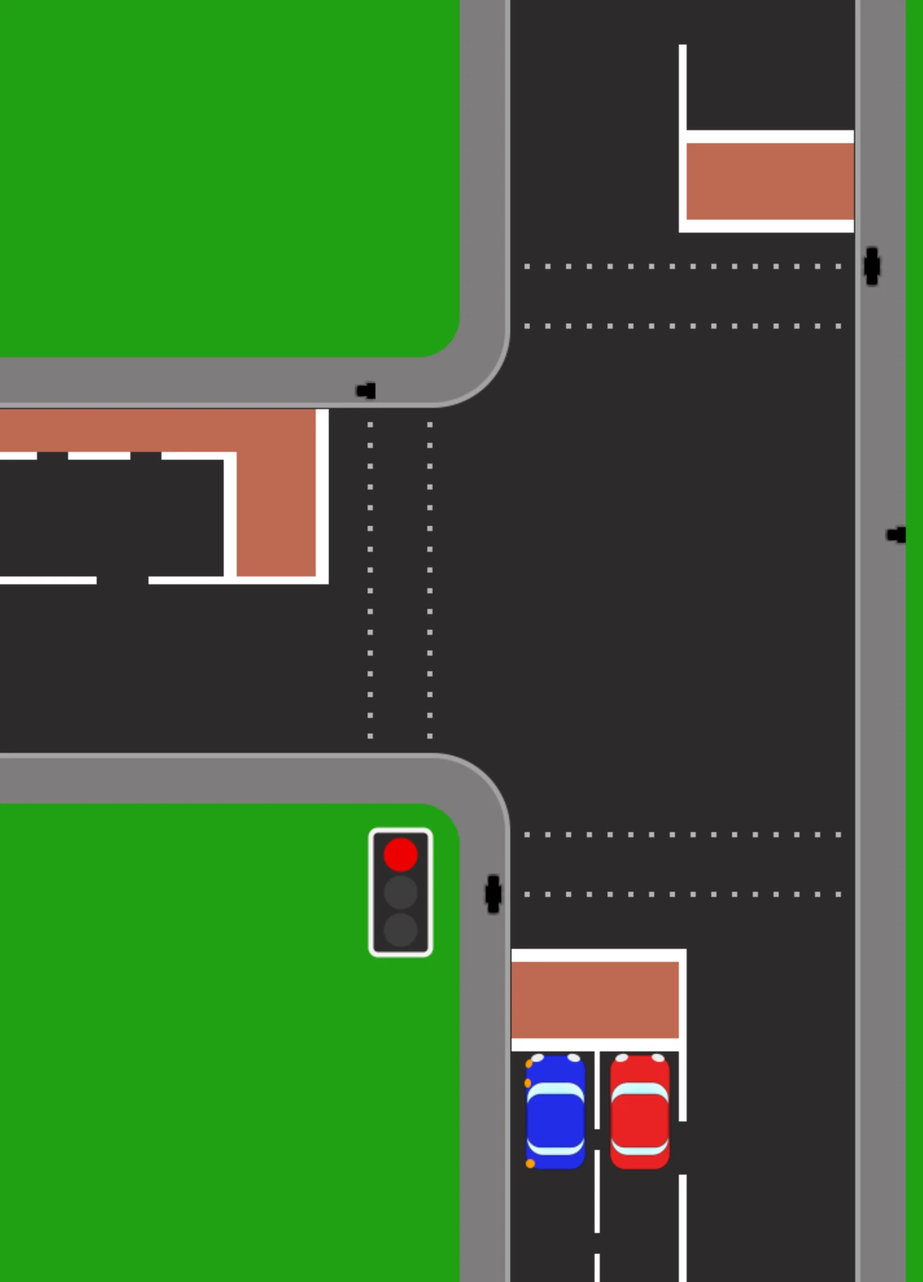
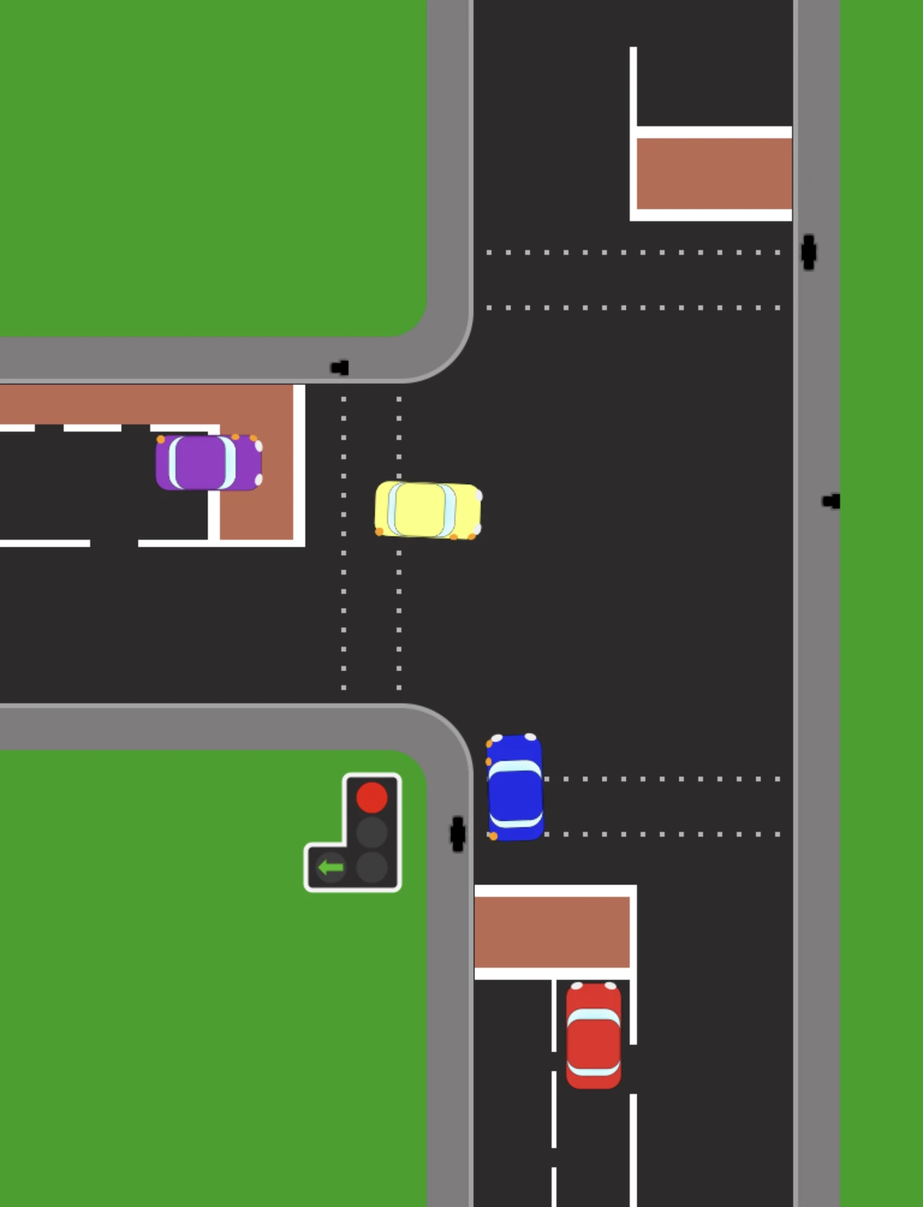
Replace four Traffic Lights diagrams and crop device chrome automatically
Fresh screenshots for Turn Left, Turn Right, T-Junction and Left
Filter; Double Right was already right and is unchanged. These came
straight off the device, so the tool now trims the status and
navigation bars and the home indicator as well - both are flat bands
spanning the full width, guarded so an already-cropped screenshot is
left alone. 152px came off the top and 64px off the bottom of each.

Which page each belongs to came from the app's own title bar rather
than filename order, which is what went wrong last time.

Two fixes to the control detection, both found by these screenshots:

  - Traffic lights are now identified by size alone. The L-shaped
    filter signals - a main head with a filter head beside it - are
    182x221, so the old "taller than wide" rule deleted them. Size
    separates cleanly: signals are 24,000-30,000 pixels against 6,700
    for the largest control. Lamp colour is no good either, since a
    signal with nothing lit has no saturated pixels.
  - Disabled toggles are drawn washed out, close enough to the verge
    green that a loose tolerance swallowed their edges: the component
    came out narrower than the control, and filling its box left faint
    arcs on the grass. Tolerance tightened from 40 to 24.

diff --git a/lessons/guide/traffic-lights/left-filter/index.html b/lessons/guide/traffic-lights/left-filter/index.html
@@ -4,8 +4,7 @@
   <meta charset="UTF-8">
   <meta name="viewport" content="width=device-width, initial-scale=1.0">
   <title>Left Filter — Learn To Drive Guide | Neil Beaver</title>
-  <meta name="description" content="A filter arrow gives you priority to turn while the main signal is still red. It applies only in the direction the arrow points, which is the part most…">
-  <meta name="robots" content="noindex, follow">
+  <meta name="description" content="A green light allows the the stop line to be crossed, but the give way line indicates that priority must be given to those passing from right to left in…">
   <link rel="canonical" href="https://www.neilbeaver.com/lessons/guide/traffic-lights/left-filter/">
 
   <meta property="og:type" content="article">
@@ -13,7 +12,7 @@
   <meta property="og:locale" content="en_GB">
   <meta property="og:url" content="https://www.neilbeaver.com/lessons/guide/traffic-lights/left-filter/">
   <meta property="og:title" content="Left Filter — Learn To Drive Guide">
-  <meta property="og:description" content="A filter arrow gives you priority to turn while the main signal is still red. It applies only in the direction the arrow points, which is the part most…">
+  <meta property="og:description" content="A green light allows the the stop line to be crossed, but the give way line indicates that priority must be given to those passing from right to left in…">
   <meta property="og:image" content="https://www.neilbeaver.com/assets/images/og-lessons.png">
   <meta name="twitter:card" content="summary_large_image">
 
@@ -48,8 +47,11 @@
     <details class="guide-nav" open><summary class="guide-nav__title">Sections</summary><div class="guide-nav__body"><nav aria-label="Guide sections"><ul class="guide-nav__list"><li class="guide-nav__topic"><a href="/lessons/guide/controls/">Controls</a></li><li class="guide-nav__topic"><a href="/lessons/guide/position/">Position</a></li><li class="guide-nav__topic"><a href="/lessons/guide/manoeuvres/">Manoeuvres</a></li><li class="guide-nav__topic"><a href="/lessons/guide/stopping/">Stopping</a></li><li class="guide-nav__topic"><a href="/lessons/guide/pedestrian-crossings/">Pedestrian Crossings</a></li><li class="guide-nav__topic"><a href="/lessons/guide/junctions/">Junctions</a></li><li class="guide-nav__topic is-open"><a href="/lessons/guide/traffic-lights/">Traffic Lights</a><ul class="guide-nav__children"><li><a href="/lessons/guide/traffic-lights/crossroads/">Crossroads</a></li><li><a href="/lessons/guide/traffic-lights/turn-left/">Turn Left</a></li><li><a href="/lessons/guide/traffic-lights/turn-right/">Turn Right</a></li><li><a href="/lessons/guide/traffic-lights/t-junction/">T-Junction</a></li><li><a href="/lessons/guide/traffic-lights/left-filter/" class="is-current">Left Filter</a></li><li><a href="/lessons/guide/traffic-lights/double-right/">Double Right</a></li></ul></li><li class="guide-nav__topic"><a href="/lessons/guide/roundabouts/">Roundabouts</a></li><li class="guide-nav__topic"><a href="/lessons/guide/dual-carriageways/">Dual Carriageways</a></li></ul></nav></div></details>
     <main class="guide-main" id="guide-main">
       <h1>Left Filter</h1>
-<p>A filter arrow gives you priority to turn while the main signal is still red. It applies only in the direction the arrow points, which is the part most often misread.</p>
-<figure class="guide-figure"><img src="/assets/images/guide/traffic-lights/left-filter/left-filter-lane.webp" alt="A light-controlled junction with a separate left filter lane curving away behind a traffic island. A blue car is in the filter lane while a yellow car waits at the main stop line, with red signals on both approaches." width="650" height="806" loading="lazy" decoding="async"></figure>
+<p>A green light allows the the stop line to be crossed, but the give way line indicates that priority must be given to those passing from right to left in this example.</p>
+<p>The blue car may go forward from the stop line on green, but even the left filter light does not grant prority at the give way line.</p>
+<p>This situation can seem counter-intuitive, because it is not usual to give priority to someone turning right, as in the case of the red car.</p>
+<p>It is important for the driver of the blue car to make at least one careful check before proceeding into the new road, including looking over the right shoulder if necessary to compensate for the car being angled towards the left.</p>
+<figure class="guide-figure"><img src="/assets/images/guide/traffic-lights/left-filter/left-filter-lane.webp" alt="A light-controlled junction with a separate left filter lane running behind a traffic island. A blue car waits in the filter lane with the filter signal beside it showing a green arrow, while a red car crosses the junction ahead." width="650" height="806" loading="lazy" decoding="async"></figure>
 
 <nav class="guide-pager" aria-label="Within this section"><a class="guide-pager__prev" href="/lessons/guide/traffic-lights/t-junction/"><span>Previous</span>T-Junction</a><a class="guide-pager__next" href="/lessons/guide/traffic-lights/double-right/"><span>Next</span>Double Right</a></nav>
     </main>

diff --git a/lessons/guide/traffic-lights/turn-right/index.html b/lessons/guide/traffic-lights/turn-right/index.html
@@ -4,8 +4,7 @@
   <meta charset="UTF-8">
   <meta name="viewport" content="width=device-width, initial-scale=1.0">
   <title>Turn Right — Learn To Drive Guide | Neil Beaver</title>
-  <meta name="description" content="Turning right at traffic lights means crossing the path of oncoming traffic, usually from the middle of the junction, and often deciding for yourself when…">
-  <meta name="robots" content="noindex, follow">
+  <meta name="description" content="When turning right with no side road on the left, there is no need to worry about leaving space for oncoming traffic turning to their right.">
   <link rel="canonical" href="https://www.neilbeaver.com/lessons/guide/traffic-lights/turn-right/">
 
   <meta property="og:type" content="article">
@@ -13,7 +12,7 @@
   <meta property="og:locale" content="en_GB">
   <meta property="og:url" content="https://www.neilbeaver.com/lessons/guide/traffic-lights/turn-right/">
   <meta property="og:title" content="Turn Right — Learn To Drive Guide">
-  <meta property="og:description" content="Turning right at traffic lights means crossing the path of oncoming traffic, usually from the middle of the junction, and often deciding for yourself when…">
+  <meta property="og:description" content="When turning right with no side road on the left, there is no need to worry about leaving space for oncoming traffic turning to their right.">
   <meta property="og:image" content="https://www.neilbeaver.com/assets/images/og-lessons.png">
   <meta name="twitter:card" content="summary_large_image">
 
@@ -48,8 +47,9 @@
     <details class="guide-nav" open><summary class="guide-nav__title">Sections</summary><div class="guide-nav__body"><nav aria-label="Guide sections"><ul class="guide-nav__list"><li class="guide-nav__topic"><a href="/lessons/guide/controls/">Controls</a></li><li class="guide-nav__topic"><a href="/lessons/guide/position/">Position</a></li><li class="guide-nav__topic"><a href="/lessons/guide/manoeuvres/">Manoeuvres</a></li><li class="guide-nav__topic"><a href="/lessons/guide/stopping/">Stopping</a></li><li class="guide-nav__topic"><a href="/lessons/guide/pedestrian-crossings/">Pedestrian Crossings</a></li><li class="guide-nav__topic"><a href="/lessons/guide/junctions/">Junctions</a></li><li class="guide-nav__topic is-open"><a href="/lessons/guide/traffic-lights/">Traffic Lights</a><ul class="guide-nav__children"><li><a href="/lessons/guide/traffic-lights/crossroads/">Crossroads</a></li><li><a href="/lessons/guide/traffic-lights/turn-left/">Turn Left</a></li><li><a href="/lessons/guide/traffic-lights/turn-right/" class="is-current">Turn Right</a></li><li><a href="/lessons/guide/traffic-lights/t-junction/">T-Junction</a></li><li><a href="/lessons/guide/traffic-lights/left-filter/">Left Filter</a></li><li><a href="/lessons/guide/traffic-lights/double-right/">Double Right</a></li></ul></li><li class="guide-nav__topic"><a href="/lessons/guide/roundabouts/">Roundabouts</a></li><li class="guide-nav__topic"><a href="/lessons/guide/dual-carriageways/">Dual Carriageways</a></li></ul></nav></div></details>
     <main class="guide-main" id="guide-main">
       <h1>Turn Right</h1>
-<p>Turning right at traffic lights means crossing the path of oncoming traffic, usually from the middle of the junction, and often deciding for yourself when the gap is big enough.</p>
-<figure class="guide-figure"><img src="/assets/images/guide/traffic-lights/turn-right/turning-right-at-lights.webp" alt="A light-controlled junction from above, with a red signal on the corner and two cars waiting at the stop line. Dotted guide lines carry the lanes across the junction towards the side road." width="650" height="866" loading="lazy" decoding="async"></figure>
+<p>When turning right with no side road on the left, there is no need to worry about leaving space for oncoming traffic turning to their right.</p>
+<p>Even if the lanes are not marked with arrows, those going ahead would do well to stick to the left lane at this junction, to avoid getting stuck behind others waiting to turn right.</p>
+<figure class="guide-figure"><img src="/assets/images/guide/traffic-lights/turn-right/turning-right-at-lights.webp" alt="A light-controlled junction from above with the signal showing green. Cars are queued in two lanes on the approach road, and a side road opens to the right beyond the junction." width="650" height="866" loading="lazy" decoding="async"></figure>
 
 <nav class="guide-pager" aria-label="Within this section"><a class="guide-pager__prev" href="/lessons/guide/traffic-lights/turn-left/"><span>Previous</span>Turn Left</a><a class="guide-pager__next" href="/lessons/guide/traffic-lights/t-junction/"><span>Next</span>T-Junction</a></nav>
     </main>

diff --git a/lessons/guide/traffic-lights/t-junction/index.html b/lessons/guide/traffic-lights/t-junction/index.html
@@ -4,8 +4,7 @@
   <meta charset="UTF-8">
   <meta name="viewport" content="width=device-width, initial-scale=1.0">
   <title>T-Junction — Learn To Drive Guide | Neil Beaver</title>
-  <meta name="description" content="A light-controlled T-junction removes the judgement needed at an unmarked one, but only if you read which phase applies to your lane.">
-  <meta name="robots" content="noindex, follow">
+  <meta name="description" content="On a T-junction, those turning right have no need to worry about oncoming traffic and can proceed as long as the lights are green.">
   <link rel="canonical" href="https://www.neilbeaver.com/lessons/guide/traffic-lights/t-junction/">
 
   <meta property="og:type" content="article">
@@ -13,7 +12,7 @@
   <meta property="og:locale" content="en_GB">
   <meta property="og:url" content="https://www.neilbeaver.com/lessons/guide/traffic-lights/t-junction/">
   <meta property="og:title" content="T-Junction — Learn To Drive Guide">
-  <meta property="og:description" content="A light-controlled T-junction removes the judgement needed at an unmarked one, but only if you read which phase applies to your lane.">
+  <meta property="og:description" content="On a T-junction, those turning right have no need to worry about oncoming traffic and can proceed as long as the lights are green.">
   <meta property="og:image" content="https://www.neilbeaver.com/assets/images/og-lessons.png">
   <meta name="twitter:card" content="summary_large_image">
 
@@ -48,8 +47,9 @@
     <details class="guide-nav" open><summary class="guide-nav__title">Sections</summary><div class="guide-nav__body"><nav aria-label="Guide sections"><ul class="guide-nav__list"><li class="guide-nav__topic"><a href="/lessons/guide/controls/">Controls</a></li><li class="guide-nav__topic"><a href="/lessons/guide/position/">Position</a></li><li class="guide-nav__topic"><a href="/lessons/guide/manoeuvres/">Manoeuvres</a></li><li class="guide-nav__topic"><a href="/lessons/guide/stopping/">Stopping</a></li><li class="guide-nav__topic"><a href="/lessons/guide/pedestrian-crossings/">Pedestrian Crossings</a></li><li class="guide-nav__topic"><a href="/lessons/guide/junctions/">Junctions</a></li><li class="guide-nav__topic is-open"><a href="/lessons/guide/traffic-lights/">Traffic Lights</a><ul class="guide-nav__children"><li><a href="/lessons/guide/traffic-lights/crossroads/">Crossroads</a></li><li><a href="/lessons/guide/traffic-lights/turn-left/">Turn Left</a></li><li><a href="/lessons/guide/traffic-lights/turn-right/">Turn Right</a></li><li><a href="/lessons/guide/traffic-lights/t-junction/" class="is-current">T-Junction</a></li><li><a href="/lessons/guide/traffic-lights/left-filter/">Left Filter</a></li><li><a href="/lessons/guide/traffic-lights/double-right/">Double Right</a></li></ul></li><li class="guide-nav__topic"><a href="/lessons/guide/roundabouts/">Roundabouts</a></li><li class="guide-nav__topic"><a href="/lessons/guide/dual-carriageways/">Dual Carriageways</a></li></ul></nav></div></details>
     <main class="guide-main" id="guide-main">
       <h1>T-Junction</h1>
-<p>A light-controlled T-junction removes the judgement needed at an unmarked one, but only if you read which phase applies to your lane.</p>
-<figure class="guide-figure"><img src="/assets/images/guide/traffic-lights/t-junction/light-controlled-t-junction.webp" alt="A light-controlled T-junction from above. The side road meets the main road from below, where two cars wait at the stop line beside a red signal, and a second signal faces traffic on the main road." width="650" height="678" loading="lazy" decoding="async"></figure>
+<p>On a T-junction, those turning right have no need to worry about oncoming traffic and can proceed as long as the lights are green.</p>
+<p>The filter lights control the flow of traffic, so road users can move in various directions without conflicting.</p>
+<figure class="guide-figure"><img src="/assets/images/guide/traffic-lights/t-junction/light-controlled-t-junction.webp" alt="A light-controlled T-junction from above. Two signals show a green filter arrow, and orange lines trace the paths of cars turning left and right out of the stem of the T." width="650" height="678" loading="lazy" decoding="async"></figure>
 
 <nav class="guide-pager" aria-label="Within this section"><a class="guide-pager__prev" href="/lessons/guide/traffic-lights/turn-right/"><span>Previous</span>Turn Right</a><a class="guide-pager__next" href="/lessons/guide/traffic-lights/left-filter/"><span>Next</span>Left Filter</a></nav>
     </main>

diff --git a/lessons/guide/traffic-lights/double-right/index.html b/lessons/guide/traffic-lights/double-right/index.html
@@ -4,8 +4,7 @@
   <meta charset="UTF-8">
   <meta name="viewport" content="width=device-width, initial-scale=1.0">
   <title>Double Right — Learn To Drive Guide | Neil Beaver</title>
-  <meta name="description" content="Some large junctions provide two lanes that both turn right. Choosing the correct one on approach matters, because changing your mind inside the junction is…">
-  <meta name="robots" content="noindex, follow">
+  <meta name="description" content="When two lanes are provided for turning right, good lane discipline must be maintained throughout the turn. Be sure to indentify the correct lane to turn…">
   <link rel="canonical" href="https://www.neilbeaver.com/lessons/guide/traffic-lights/double-right/">
 
   <meta property="og:type" content="article">
@@ -13,7 +12,7 @@
   <meta property="og:locale" content="en_GB">
   <meta property="og:url" content="https://www.neilbeaver.com/lessons/guide/traffic-lights/double-right/">
   <meta property="og:title" content="Double Right — Learn To Drive Guide">
-  <meta property="og:description" content="Some large junctions provide two lanes that both turn right. Choosing the correct one on approach matters, because changing your mind inside the junction is…">
+  <meta property="og:description" content="When two lanes are provided for turning right, good lane discipline must be maintained throughout the turn. Be sure to indentify the correct lane to turn…">
   <meta property="og:image" content="https://www.neilbeaver.com/assets/images/og-lessons.png">
   <meta name="twitter:card" content="summary_large_image">
 
@@ -48,7 +47,8 @@
     <details class="guide-nav" open><summary class="guide-nav__title">Sections</summary><div class="guide-nav__body"><nav aria-label="Guide sections"><ul class="guide-nav__list"><li class="guide-nav__topic"><a href="/lessons/guide/controls/">Controls</a></li><li class="guide-nav__topic"><a href="/lessons/guide/position/">Position</a></li><li class="guide-nav__topic"><a href="/lessons/guide/manoeuvres/">Manoeuvres</a></li><li class="guide-nav__topic"><a href="/lessons/guide/stopping/">Stopping</a></li><li class="guide-nav__topic"><a href="/lessons/guide/pedestrian-crossings/">Pedestrian Crossings</a></li><li class="guide-nav__topic"><a href="/lessons/guide/junctions/">Junctions</a></li><li class="guide-nav__topic is-open"><a href="/lessons/guide/traffic-lights/">Traffic Lights</a><ul class="guide-nav__children"><li><a href="/lessons/guide/traffic-lights/crossroads/">Crossroads</a></li><li><a href="/lessons/guide/traffic-lights/turn-left/">Turn Left</a></li><li><a href="/lessons/guide/traffic-lights/turn-right/">Turn Right</a></li><li><a href="/lessons/guide/traffic-lights/t-junction/">T-Junction</a></li><li><a href="/lessons/guide/traffic-lights/left-filter/">Left Filter</a></li><li><a href="/lessons/guide/traffic-lights/double-right/" class="is-current">Double Right</a></li></ul></li><li class="guide-nav__topic"><a href="/lessons/guide/roundabouts/">Roundabouts</a></li><li class="guide-nav__topic"><a href="/lessons/guide/dual-carriageways/">Dual Carriageways</a></li></ul></nav></div></details>
     <main class="guide-main" id="guide-main">
       <h1>Double Right</h1>
-<p>Some large junctions provide two lanes that both turn right. Choosing the correct one on approach matters, because changing your mind inside the junction is rarely possible.</p>
+<p>When two lanes are provided for turning right, good lane discipline must be maintained throughout the turn. Be sure to indentify the correct lane to turn into, allowing space for others turning right next to you.</p>
+<p>There may or may not be guiding lines painted on the road to help with positioning. It&#x27;s helpful to be aware of the whole junction on approach, taking in as much information as possible about which lane goes where. This can help to avoid any surprises once the lights go green and everyone starts to move.</p>
 <figure class="guide-figure"><img src="/assets/images/guide/traffic-lights/double-right/double-right-turn-lanes.webp" alt="A light-controlled crossroads with two right-turn lanes. Arrows painted on the approach mark the lanes as left-and-ahead, right, and right; three cars wait at the stop line, and a dashed guide line curves across the junction." width="650" height="726" loading="lazy" decoding="async"></figure>
 
 <nav class="guide-pager" aria-label="Within this section"><a class="guide-pager__prev" href="/lessons/guide/traffic-lights/left-filter/"><span>Previous</span>Left Filter</a></nav>

diff --git a/lessons/guide/traffic-lights/turn-left/index.html b/lessons/guide/traffic-lights/turn-left/index.html
@@ -48,10 +48,10 @@
     <main class="guide-main" id="guide-main">
       <h1>Turn Left</h1>
 <p>Although the default position for going ahead is on the left, be aware of situations in which it makes more sense to position towards the right.</p>
-<p>Where there is a side road on the left only, lanes can be used to keep traffic flowing efficiently. The right lane can be used for going ahead, leaving the left lane clear for those proceeding on the filter light.</p>
+<p>Where there is a side road on the left only, lanes can be used to keep traffic flowing efficiently. The right lane can be used for going ahead, leaving the left lane clear for those proceeding on the filter light (if there is one).</p>
 <p>When the left filter light goes off and only the round light is showing, all traffic is allowed to proceed, including those turning left.</p>
 <p>Always be aware of cyclists and other road users when turning.</p>
-<figure class="guide-figure"><img src="/assets/images/guide/traffic-lights/turn-left/turning-left-at-lights.webp" alt="A light-controlled junction from above. Two cars wait side by side at the stop line on the approach road with the signal beside them showing red." width="650" height="902" loading="lazy" decoding="async"></figure>
+<figure class="guide-figure"><img src="/assets/images/guide/traffic-lights/turn-left/turning-left-at-lights.webp" alt="A light-controlled junction from above. The signal on the corner shows red with a green left filter arrow lit beside it, so traffic turning left may go while everything else waits. A blue car is at the line and a yellow car crosses ahead of it." width="650" height="902" loading="lazy" decoding="async"></figure>
 
 <nav class="guide-pager" aria-label="Within this section"><a class="guide-pager__prev" href="/lessons/guide/traffic-lights/crossroads/"><span>Previous</span>Crossroads</a><a class="guide-pager__next" href="/lessons/guide/traffic-lights/turn-right/"><span>Next</span>Turn Right</a></nav>
     </main>

diff --git a/tools/strip_app_controls.py b/tools/strip_app_controls.py
@@ -20,24 +20,65 @@ from scipy import ndimage
 MIN_PX  = 120     # smaller than the smallest glyph
 PAD     = 3       # eat the anti-aliased fringe
 MERGE   = 5       # dilation that joins neighbouring letters into one word
+GREEN_TOL = 24    # how far from the verge colour still counts as verge
+
+# Disabled toggles are drawn washed out, close enough to the verge that a
+# loose tolerance swallowed their edges - the component came out narrower than
+# the control and filling its box left faint arcs behind on the grass.
 
 # Letters in a word sit only a few pixels apart, so testing each glyph on its
 # own fails: the ring drawn around one letter lands on the next one and the
 # component looks like it is touching something. Dilating first merges each
 # label into a single component, which is also a tidier thing to fill.
 
+def crop_device_chrome(a):
+    """Trim the status/navigation bar and the home indicator from a full-device
+    screenshot, leaving just the app's drawing.
+
+    Both bands are flat: the bars are a neutral grey and the home indicator is
+    pure black, each spanning the full width. Guarded so an already-cropped
+    screenshot is left alone - the guards fail unless a genuine chrome band is
+    present at the very top or bottom.
+    """
+    h, w, _ = a.shape
+    y0, y1 = 0, h
+
+    chrome = a[2, w // 2]
+    neutral = int(chrome.max() - chrome.min()) < 8
+    frac = lambda row, c: float((np.abs(a[row] - c).sum(axis=1) < 24).mean())
+    if neutral and frac(2, chrome) > 0.8:
+        while y0 < h and frac(y0, chrome) > 0.5:
+            y0 += 1
+
+    dark = lambda row: float((a[row].max(axis=1) < 20).mean())
+    if dark(h - 1) > 0.9:
+        while y1 > y0 and dark(y1 - 1) > 0.9:
+            y1 -= 1
+
+    return a[y0:y1], (y0, h - y1)
+
 def is_traffic_light(w, h, size, sat):
-    return size > 15000 and h > 1.5 * w and sat > 0.08
+    """Size alone separates them, with a wide margin.
+
+    Signals run 24,000-30,000 pixels; the largest control - a toggle - is
+    about 6,700, and a button around 6,300. An earlier version also required
+    the shape to be taller than wide, which deleted the L-shaped filter
+    signals: a main head with a filter head beside it is 182x221, a ratio of
+    1.21. Lamp colour is no good either, since a signal showing nothing lit
+    has no saturated pixels at all.
+    """
+    return size > 12000
 
 def strip(path, out_dir):
     im = Image.open(path).convert('RGB')
     a = np.asarray(im).astype(int)
+    a, (cut_top, cut_bottom) = crop_device_chrome(a)
     h, w, _ = a.shape
 
     cols, counts = np.unique(a.reshape(-1, 3), axis=0, return_counts=True)
     greenish = (cols[:, 1] > 100) & (cols[:, 1] > cols[:, 0] * 1.6) & (cols[:, 1] > cols[:, 2] * 1.6)
     g = cols[greenish][np.argmax(counts[greenish])]
-    green = (np.abs(a - g).sum(axis=2) < 40)
+    green = (np.abs(a - g).sum(axis=2) < GREEN_TOL)
 
     merged = ndimage.binary_dilation(~green, np.ones((MERGE, MERGE), bool))
     lab, n = ndimage.label(merged)
@@ -84,8 +125,9 @@ def strip(path, out_dir):
     os.makedirs(out_dir, exist_ok=True)
     dest = os.path.join(out_dir, os.path.basename(path))
     Image.fromarray(out.astype(np.uint8)).save(dest)
-    print(f"{os.path.basename(path):16} removed {removed:3} controls, "
-          f"kept {kept} traffic light(s), {changed*100:.2f}% of pixels repainted")
+    crop = f", cropped {cut_top}px top / {cut_bottom}px bottom" if (cut_top or cut_bottom) else ""
+    print(f"{os.path.basename(path)[:34]:34} removed {removed:3} controls, "
+          f"kept {kept} light(s), {changed*100:.2f}% repainted{crop}")
     return dest
 
 if __name__ == '__main__':

diff --git a/content/guide/traffic-lights/left-filter.md b/content/guide/traffic-lights/left-filter.md
@@ -3,15 +3,16 @@ title: Left Filter
 path: traffic-lights/left-filter
 order: 5
 parent: traffic-lights
-draft: true
+draft: false
 lastmod: 2026-08-19
 ---
 
-A filter arrow gives you priority to turn while the main signal is still red.
-It applies only in the direction the arrow points, which is the part most often
-misread.
+A green light allows the the stop line to be crossed, but the give way line indicates that priority must be given to those passing from right to left in this example.
 
-<!-- Write the lesson here. Anything added between this note and
-     the image below appears above the diagram on the page. -->
+The blue car may go forward from the stop line on green, but even the left filter light does not grant prority at the give way line. 
 
-![A light-controlled junction with a separate left filter lane curving away behind a traffic island. A blue car is in the filter lane while a yellow car waits at the main stop line, with red signals on both approaches.](left-filter-lane.webp)
+This situation can seem counter-intuitive, because it is not usual to give priority to someone turning right, as in the case of the red car.
+
+It is important for the driver of the blue car to make at least one careful check before proceeding into the new road, including looking over the right shoulder if necessary to compensate for the car being angled towards the left.
+
+![A light-controlled junction with a separate left filter lane running behind a traffic island. A blue car waits in the filter lane with the filter signal beside it showing a green arrow, while a red car crosses the junction ahead.](left-filter-lane.webp)

diff --git a/content/guide/traffic-lights/turn-left.md b/content/guide/traffic-lights/turn-left.md
@@ -9,10 +9,10 @@ lastmod: 2026-08-19
 
 Although the default position for going ahead is on the left, be aware of situations in which it makes more sense to position towards the right. 
 
-Where there is a side road on the left only, lanes can be used to keep traffic flowing efficiently. The right lane can be used for going ahead, leaving the left lane clear for those proceeding on the filter light.
+Where there is a side road on the left only, lanes can be used to keep traffic flowing efficiently. The right lane can be used for going ahead, leaving the left lane clear for those proceeding on the filter light (if there is one).
 
 When the left filter light goes off and only the round light is showing, all traffic is allowed to proceed, including those turning left.
 
 Always be aware of cyclists and other road users when turning.
 
-![A light-controlled junction from above. Two cars wait side by side at the stop line on the approach road with the signal beside them showing red.](turning-left-at-lights.webp)
+![A light-controlled junction from above. The signal on the corner shows red with a green left filter arrow lit beside it, so traffic turning left may go while everything else waits. A blue car is at the line and a yellow car crosses ahead of it.](turning-left-at-lights.webp)

diff --git a/content/guide/traffic-lights/double-right.md b/content/guide/traffic-lights/double-right.md
@@ -3,15 +3,13 @@ title: Double Right
 path: traffic-lights/double-right
 order: 6
 parent: traffic-lights
-draft: true
+draft: false
 lastmod: 2026-08-19
 ---
 
-Some large junctions provide two lanes that both turn right. Choosing the
-correct one on approach matters, because changing your mind inside the junction
-is rarely possible.
+When two lanes are provided for turning right, good lane discipline must be maintained throughout the turn. Be sure to indentify the correct lane to turn into, allowing space for others turning right next to you.
 
-<!-- Write the lesson here. Anything added between this note and
-     the image below appears above the diagram on the page. -->
+There may or may not be guiding lines painted on the road to help with positioning. 
+It's helpful to be aware of the whole junction on approach, taking in as much information as possible about which lane goes where. This can help to avoid any surprises once the lights go green and everyone starts to move.
 
 ![A light-controlled crossroads with two right-turn lanes. Arrows painted on the approach mark the lanes as left-and-ahead, right, and right; three cars wait at the stop line, and a dashed guide line curves across the junction.](double-right-turn-lanes.webp)

diff --git a/content/guide/traffic-lights/turn-right.md b/content/guide/traffic-lights/turn-right.md
@@ -3,15 +3,12 @@ title: Turn Right
 path: traffic-lights/turn-right
 order: 3
 parent: traffic-lights
-draft: true
+draft: false
 lastmod: 2026-08-19
 ---
 
-Turning right at traffic lights means crossing the path of oncoming traffic,
-usually from the middle of the junction, and often deciding for yourself when
-the gap is big enough.
+When turning right with no side road on the left, there is no need to worry about leaving space for oncoming traffic turning to their right.
 
-<!-- Write the lesson here. Anything added between this note and
-     the image below appears above the diagram on the page. -->
+Even if the lanes are not marked with arrows, those going ahead would do well to stick to the left lane at this junction, to avoid getting stuck behind others waiting to turn right.
 
-![A light-controlled junction from above, with a red signal on the corner and two cars waiting at the stop line. Dotted guide lines carry the lanes across the junction towards the side road.](turning-right-at-lights.webp)
+![A light-controlled junction from above with the signal showing green. Cars are queued in two lanes on the approach road, and a side road opens to the right beyond the junction.](turning-right-at-lights.webp)

diff --git a/content/guide/traffic-lights/t-junction.md b/content/guide/traffic-lights/t-junction.md
@@ -3,14 +3,12 @@ title: T-Junction
 path: traffic-lights/t-junction
 order: 4
 parent: traffic-lights
-draft: true
+draft: false
 lastmod: 2026-08-19
 ---
 
-A light-controlled T-junction removes the judgement needed at an unmarked one,
-but only if you read which phase applies to your lane.
+On a T-junction, those turning right have no need to worry about oncoming traffic and can proceed as long as the lights are green.
 
-<!-- Write the lesson here. Anything added between this note and
-     the image below appears above the diagram on the page. -->
+The filter lights control the flow of traffic, so road users can move in various directions without conflicting. 
 
-![A light-controlled T-junction from above. The side road meets the main road from below, where two cars wait at the stop line beside a red signal, and a second signal faces traffic on the main road.](light-controlled-t-junction.webp)
+![A light-controlled T-junction from above. Two signals show a green filter arrow, and orange lines trace the paths of cars turning left and right out of the stem of the T.](light-controlled-t-junction.webp)
